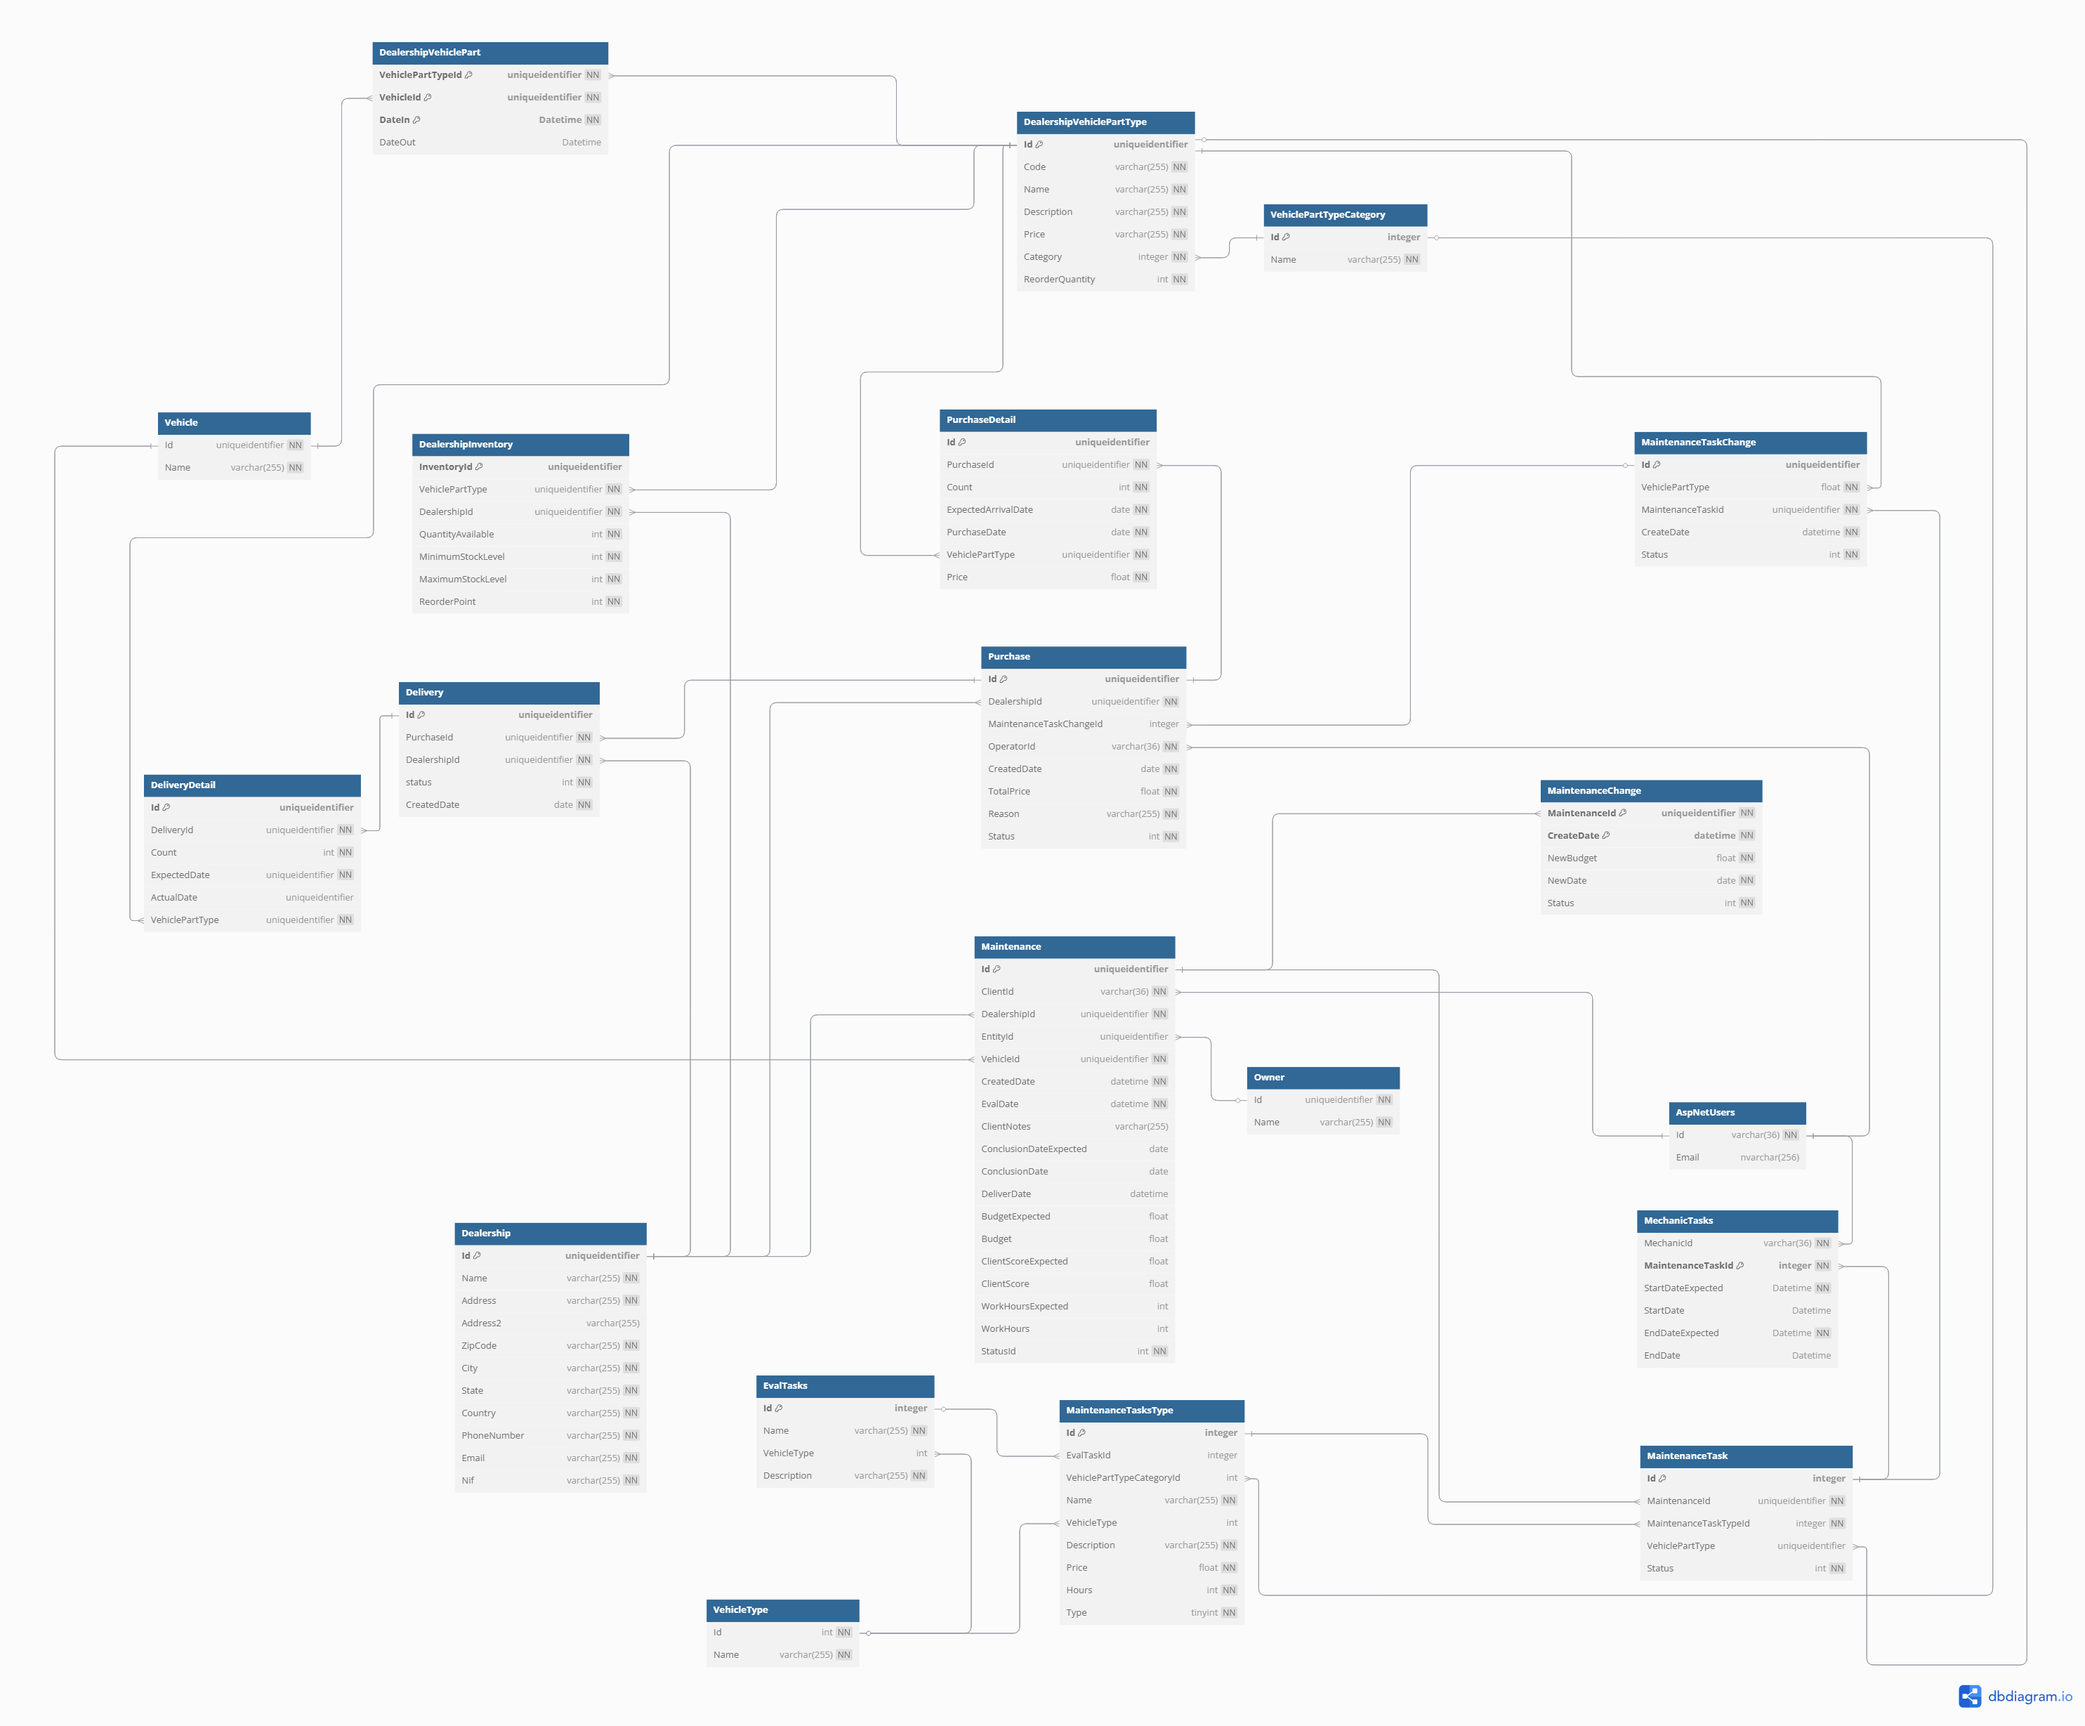
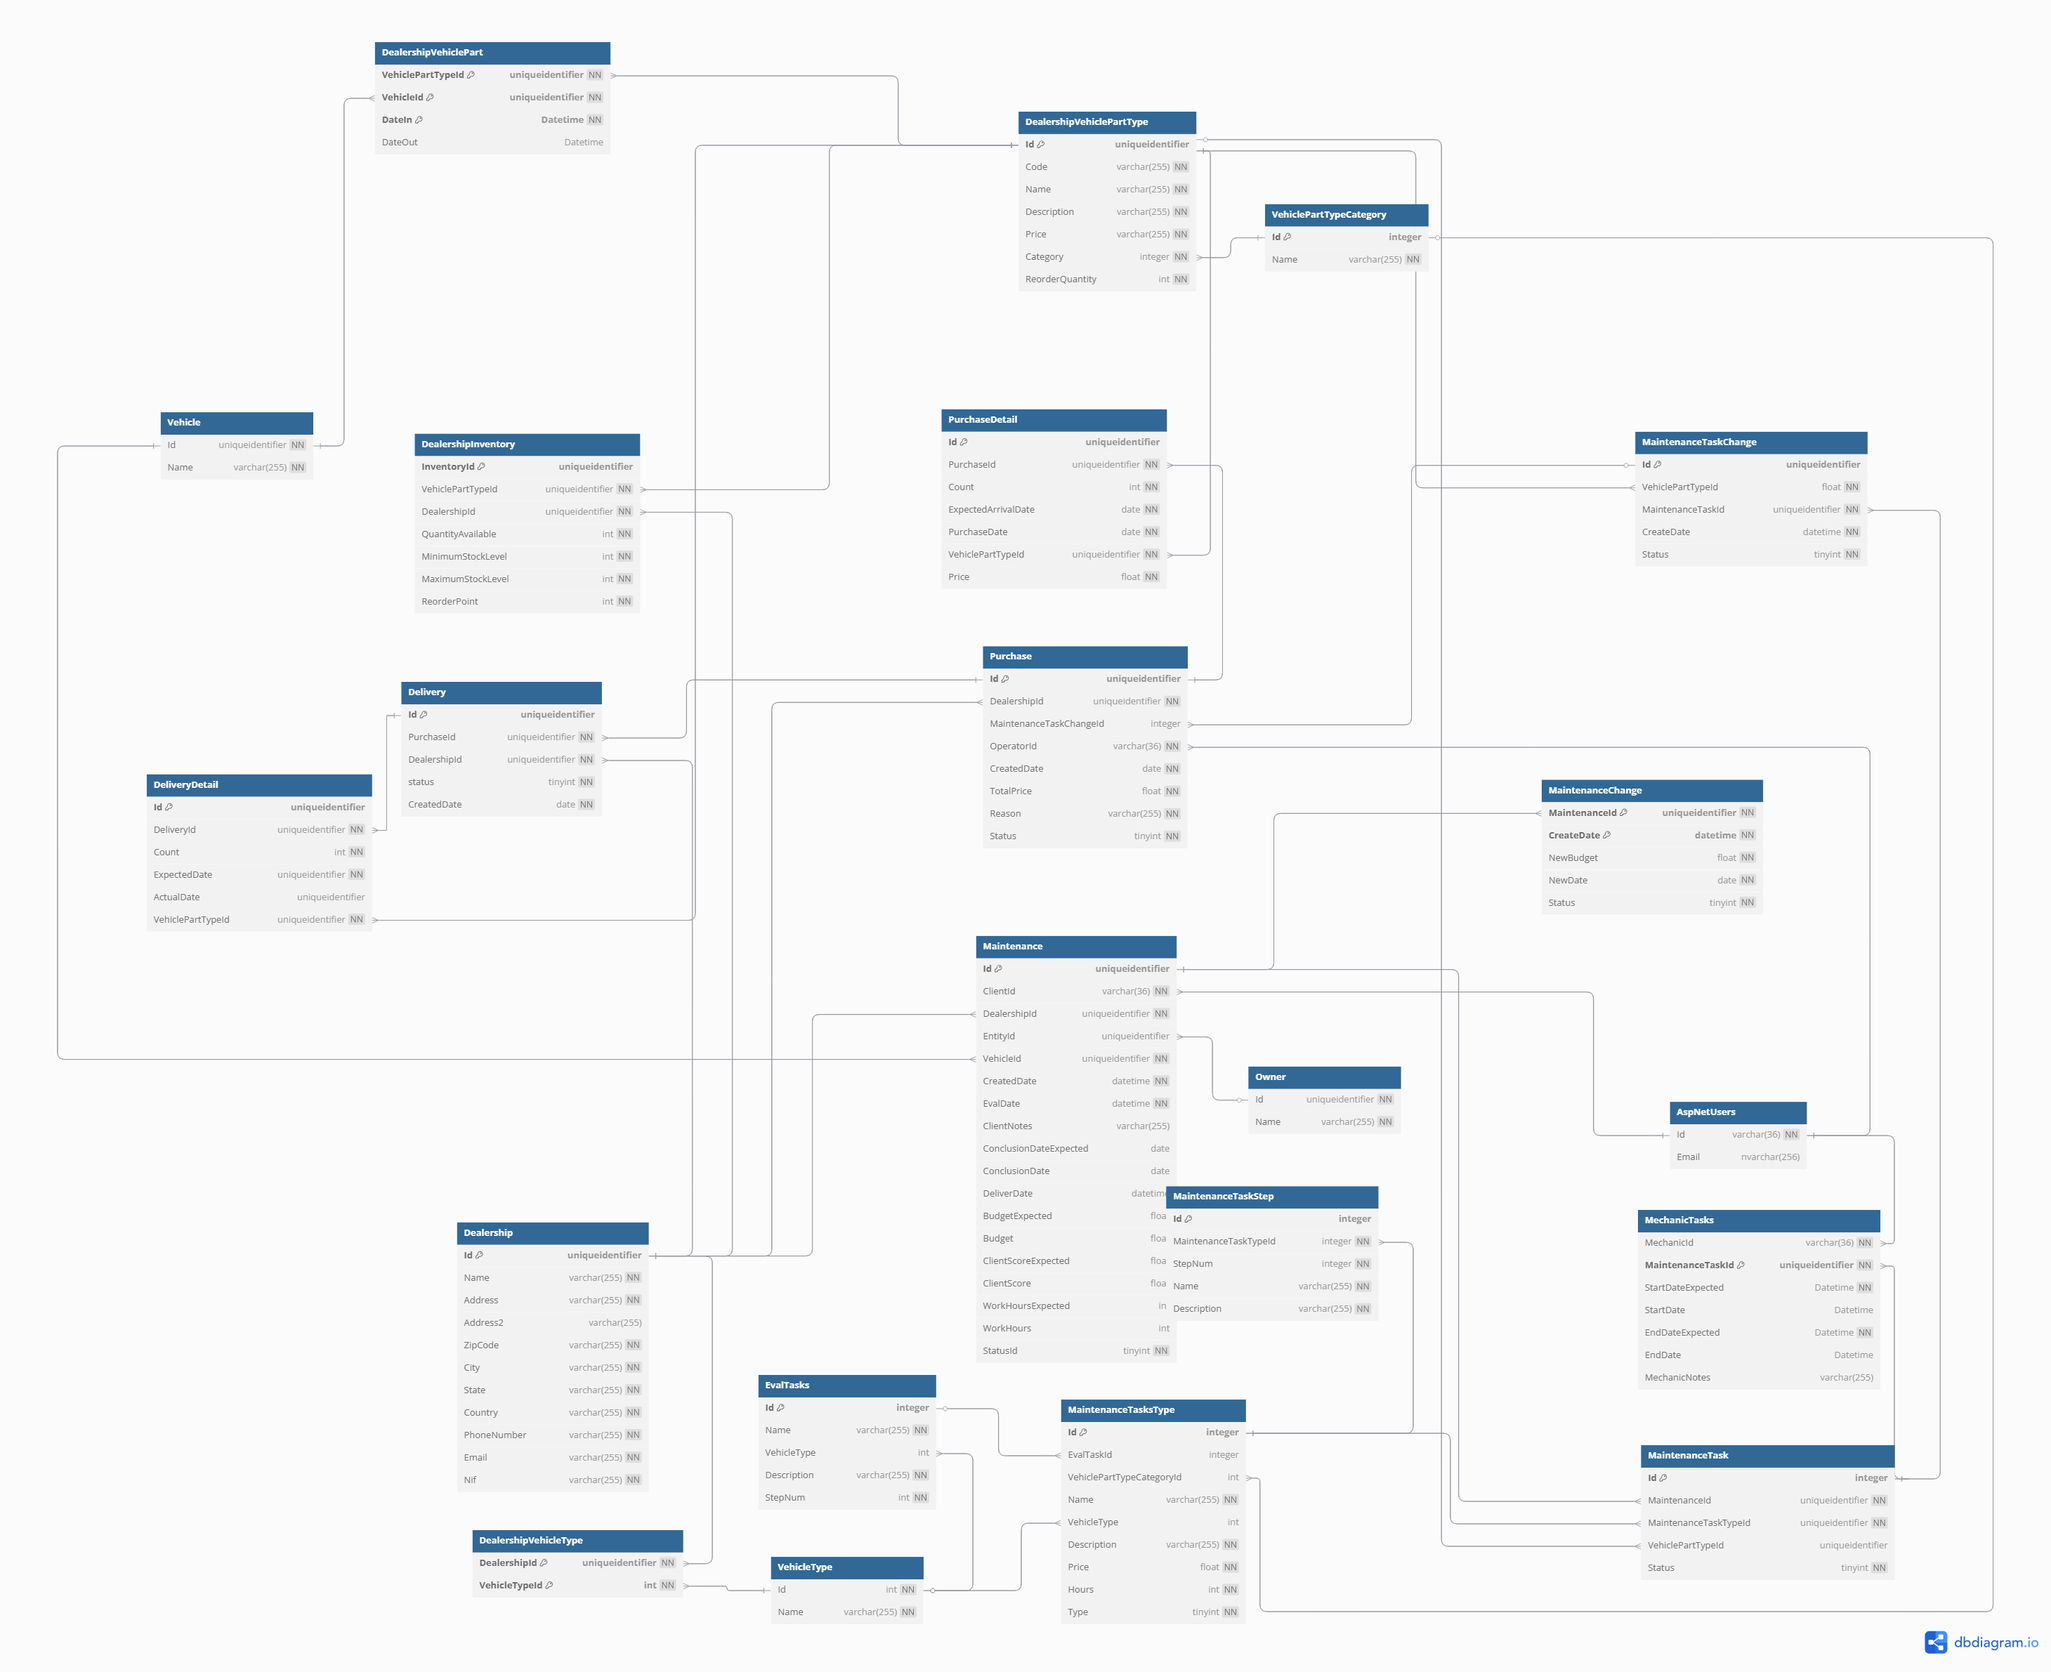
version 8

diff --git a/TODO.md b/TODO.md
@@ -11,9 +11,38 @@ Fazer mais uma tabela para o histórico do preço das peças em inventário de c
 
 ----------------------------------- + ---------------------------------------
 
-# Todo
+# Todo - Semana 10/03-16/03
 
-Adicionar tabela maitenanceTaskStep #Need verificaition
+Adicionar tabela maitenanceTaskStep DONE
+    - MaintenanceTaskType PK
+    - Step Num PK
+    - Nome
+    - Descrição
+
+
+
+Criar Use Case criar utilizadores DONE
+
+Alterar página inicial do chefe de oficina e do rececionista para ser como a criação de horários do paco2
+
+
+Implementar finalização dos detalhes da manutenção
+
+
+# Todo - Semana 17/03-23/03
+
+Compras e visualização do stock do warehouse manager
+
+Autorização de compras no workshop manager
+
+# TDO - semana 24-30
+
+Implementar Criação de clientes
+Implementar Criar utilizadores no Warehouse manager
+
+
+
+
 
 
 # Caso De uso 
